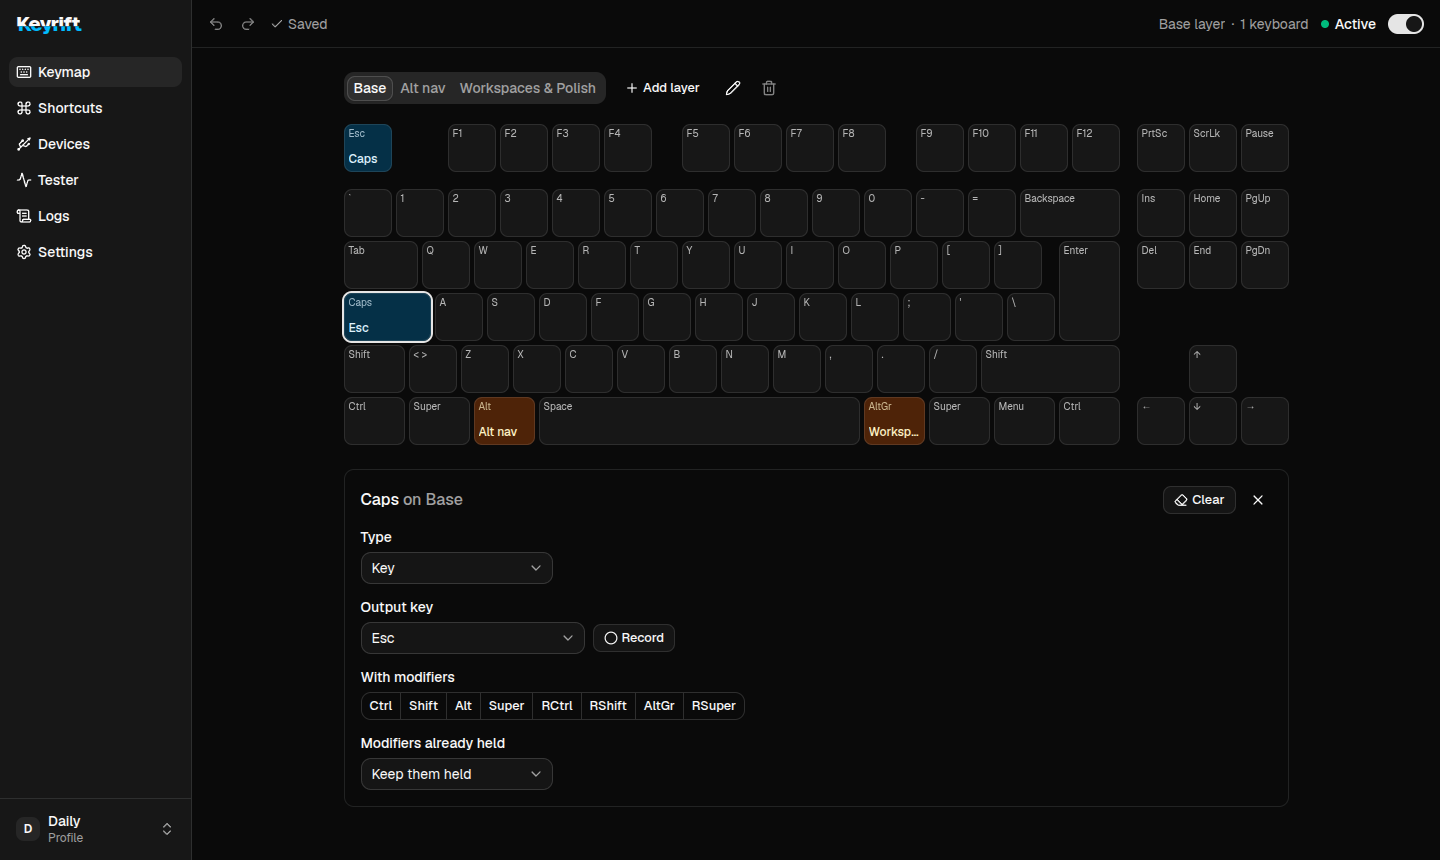
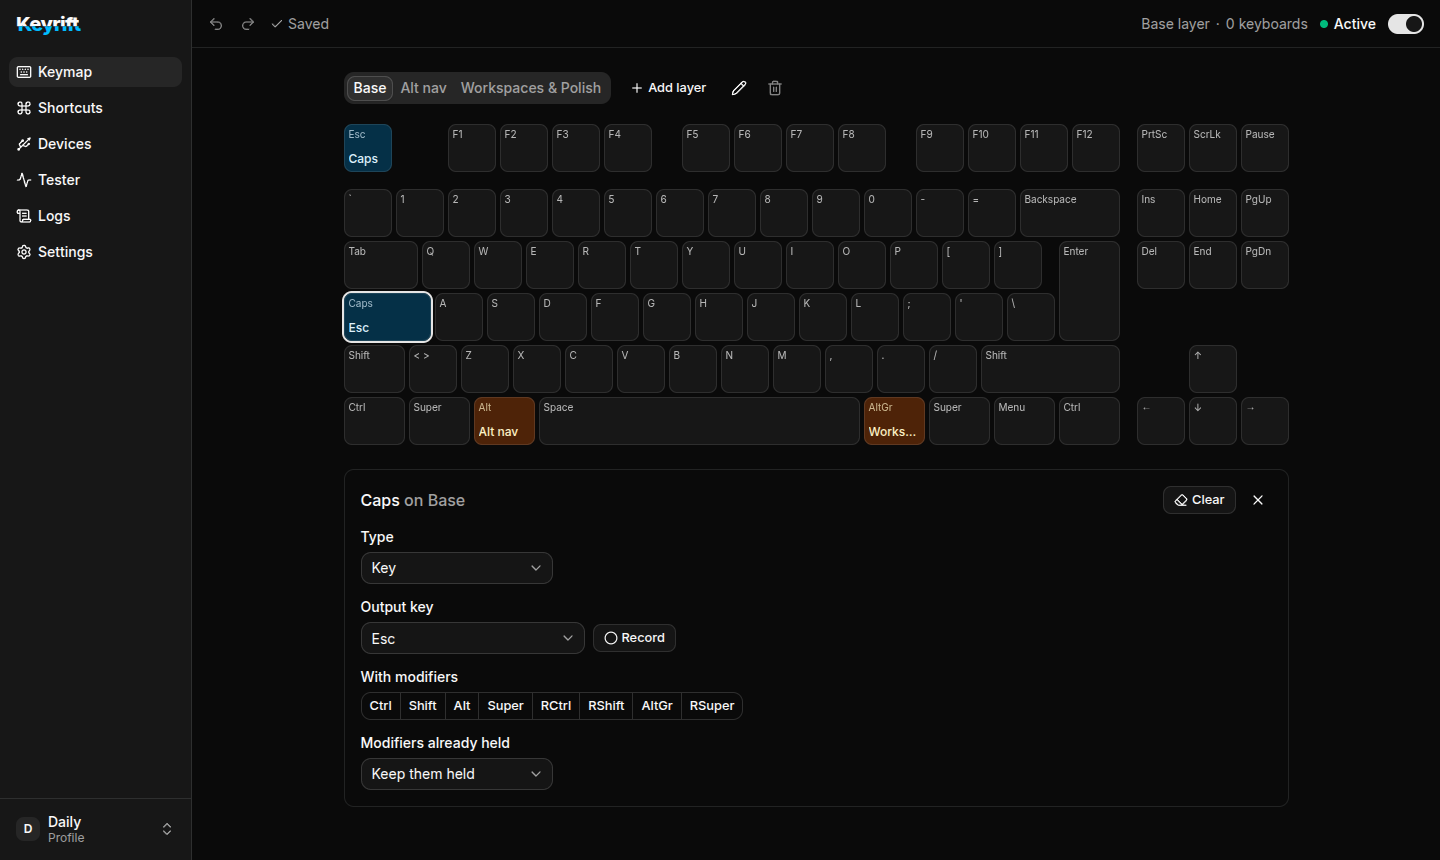
docs: describe profile import/export and updating for v0.2

diff --git a/packaging/README.md b/packaging/README.md
@@ -53,12 +53,24 @@ Package checks:
 ## Releases
 
 `.github/workflows/release.yml` builds the packages on GitHub for every `v*` tag and attaches the
-three files above to a GitHub Release for that tag. To cut one:
+three files above to a GitHub Release for that tag, together with `latest-linux.yml`. To cut one:
 
-1. Bump `version` in `apps/desktop/package.json` (e.g. `0.2.0`) and commit it. The workflow fails
-   when the tag doesn't match this version.
-2. Tag that commit: `git tag v0.2.0`.
-3. Push the tag: `git push origin v0.2.0`.
+1. Bump `version` in `apps/desktop/package.json` and in the root `Cargo.toml` (e.g. `0.3.0`), run
+   `cargo build` to update `Cargo.lock`, and commit. The workflow fails when the tag doesn't match
+   both versions.
+2. Tag that commit: `git tag v0.3.0`.
+3. Push the tag: `git push origin v0.3.0`.
+
+### Updates
+
+The app updates itself from these releases (Settings → Updates, electron-updater). It reads
+`latest-linux.yml` from the latest release, downloads the file matching how it was installed and
+installs it: `dpkg -i` or `pacman -U` behind one password prompt (pkexec) for the packages, or by
+replacing the file for the AppImage. electron-builder writes `latest-linux.yml` next to the packages
+and puts `app-update.yml` (where to look) and `package-type` (deb or pacman) into them, because
+`publish` in `electron-builder.yml` names this repository; `--publish never` keeps it from uploading
+anything itself. After a .deb or pacman update the new app restarts `keyrift.service` when the running
+engine is older than the installed one. Version 0.1.0 had no updater: install 0.2.0 by hand once.
 
 `.github/workflows/ci.yml` runs the Rust and TypeScript checks on every push and pull request.
 GitHub's runners have no writable `/dev/uinput`, so the end-to-end and GUI tests skip themselves

diff --git a/README.md b/README.md
@@ -52,7 +52,8 @@ Keyrift is meant for you.
 - **Shortcuts.** Turn one key combination into another, such as Super+C into Ctrl+Shift+C, or switch
   one off entirely.
 - **Macros.** A sequence of keys and pauses, typed with one press. Steps can be picked or recorded.
-- **Profiles.** Keep several complete keymaps and switch between them from the sidebar.
+- **Profiles.** Keep several complete keymaps and switch between them from the sidebar. Export a
+  profile to a file and import it on another computer.
 
 ### The app
 
@@ -68,6 +69,7 @@ Keyrift is meant for you.
   when a toggle layer changes.
 - **Setup wizard** that checks permissions, groups, the uinput module and competing remappers, and
   fixes what it can with a single password prompt.
+- **Updates** from Settings: check, download and install a new version without leaving the app.
 - Undo and redo, autosave, and a light and dark theme.
 
 ### The engine
@@ -97,6 +99,12 @@ The `.deb` and pacman packages install the app to `/opt/Keyrift`, the engine as 
 and the udev rule and module settings the engine needs. The AppImage needs no root to install: it
 copies its engine to `~/.local/share/keyrift/bin` and keeps it up to date there, and the setup
 wizard does the system part with one password prompt.
+
+### Updating
+
+Open **Settings → Updates** and click **Check for updates**. Keyrift downloads the new version from
+GitHub, installs it (the packages ask for your password once) and restarts. Your keymaps stay.
+Version 0.1.0 can't update itself yet: install 0.2.0 by hand once, as above.
 
 ### First start
 
